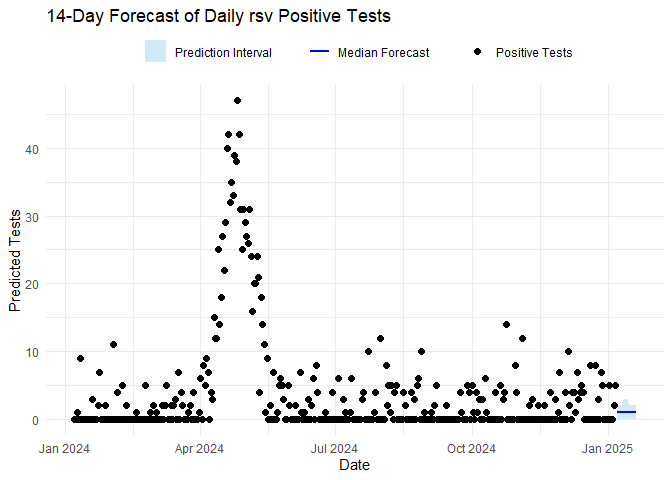
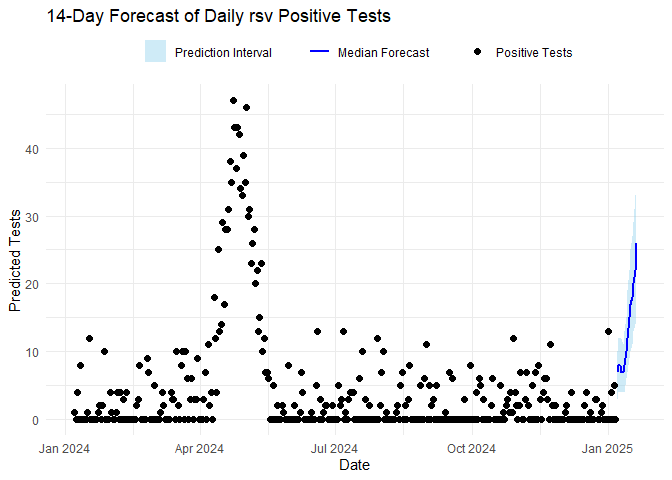
adding readme.md after building

diff --git a/README.md b/README.md
@@ -24,8 +24,10 @@ Install the released version from CRAN:
 
 ``` r
 install.packages("ViroReportR")
+```
 
-You can then install the development version of `ViroReportR` from [GitHub](https://github.com/) with:
+You can then install the development version of `ViroReportR` from
+[GitHub](https://github.com/) with:
 
 ``` r
 
@@ -93,48 +95,48 @@ head(vri_data_list)
 #> # A tibble: 366 × 2
 #>    date       confirm
 #>    <date>       <dbl>
-#>  1 2024-01-07       0
-#>  2 2024-01-08       6
-#>  3 2024-01-09       0
+#>  1 2024-01-07      10
+#>  2 2024-01-08       5
+#>  3 2024-01-09      10
 #>  4 2024-01-10       0
 #>  5 2024-01-11       0
-#>  6 2024-01-12       0
-#>  7 2024-01-13       4
+#>  6 2024-01-12       1
+#>  7 2024-01-13       0
 #>  8 2024-01-14       0
-#>  9 2024-01-15       2
-#> 10 2024-01-16       0
+#>  9 2024-01-15       0
+#> 10 2024-01-16       2
 #> # ℹ 356 more rows
 #> 
 #> $rsv
 #> # A tibble: 366 × 2
 #>    date       confirm
 #>    <date>       <dbl>
-#>  1 2024-01-07       0
+#>  1 2024-01-07       1
 #>  2 2024-01-08       0
-#>  3 2024-01-09       1
+#>  3 2024-01-09       4
 #>  4 2024-01-10       0
-#>  5 2024-01-11       9
+#>  5 2024-01-11       8
 #>  6 2024-01-12       0
 #>  7 2024-01-13       0
 #>  8 2024-01-14       0
 #>  9 2024-01-15       0
-#> 10 2024-01-16       0
+#> 10 2024-01-16       1
 #> # ℹ 356 more rows
 #> 
 #> $sars_cov2
 #> # A tibble: 366 × 2
 #>    date       confirm
 #>    <date>       <dbl>
-#>  1 2024-01-07       8
-#>  2 2024-01-08       3
+#>  1 2024-01-07       0
+#>  2 2024-01-08       1
 #>  3 2024-01-09       0
 #>  4 2024-01-10       0
-#>  5 2024-01-11       0
+#>  5 2024-01-11       6
 #>  6 2024-01-12       0
-#>  7 2024-01-13       0
+#>  7 2024-01-13       3
 #>  8 2024-01-14       0
-#>  9 2024-01-15       2
-#> 10 2024-01-16       3
+#>  9 2024-01-15       5
+#> 10 2024-01-16       0
 #> # ℹ 356 more rows
 ```
 
